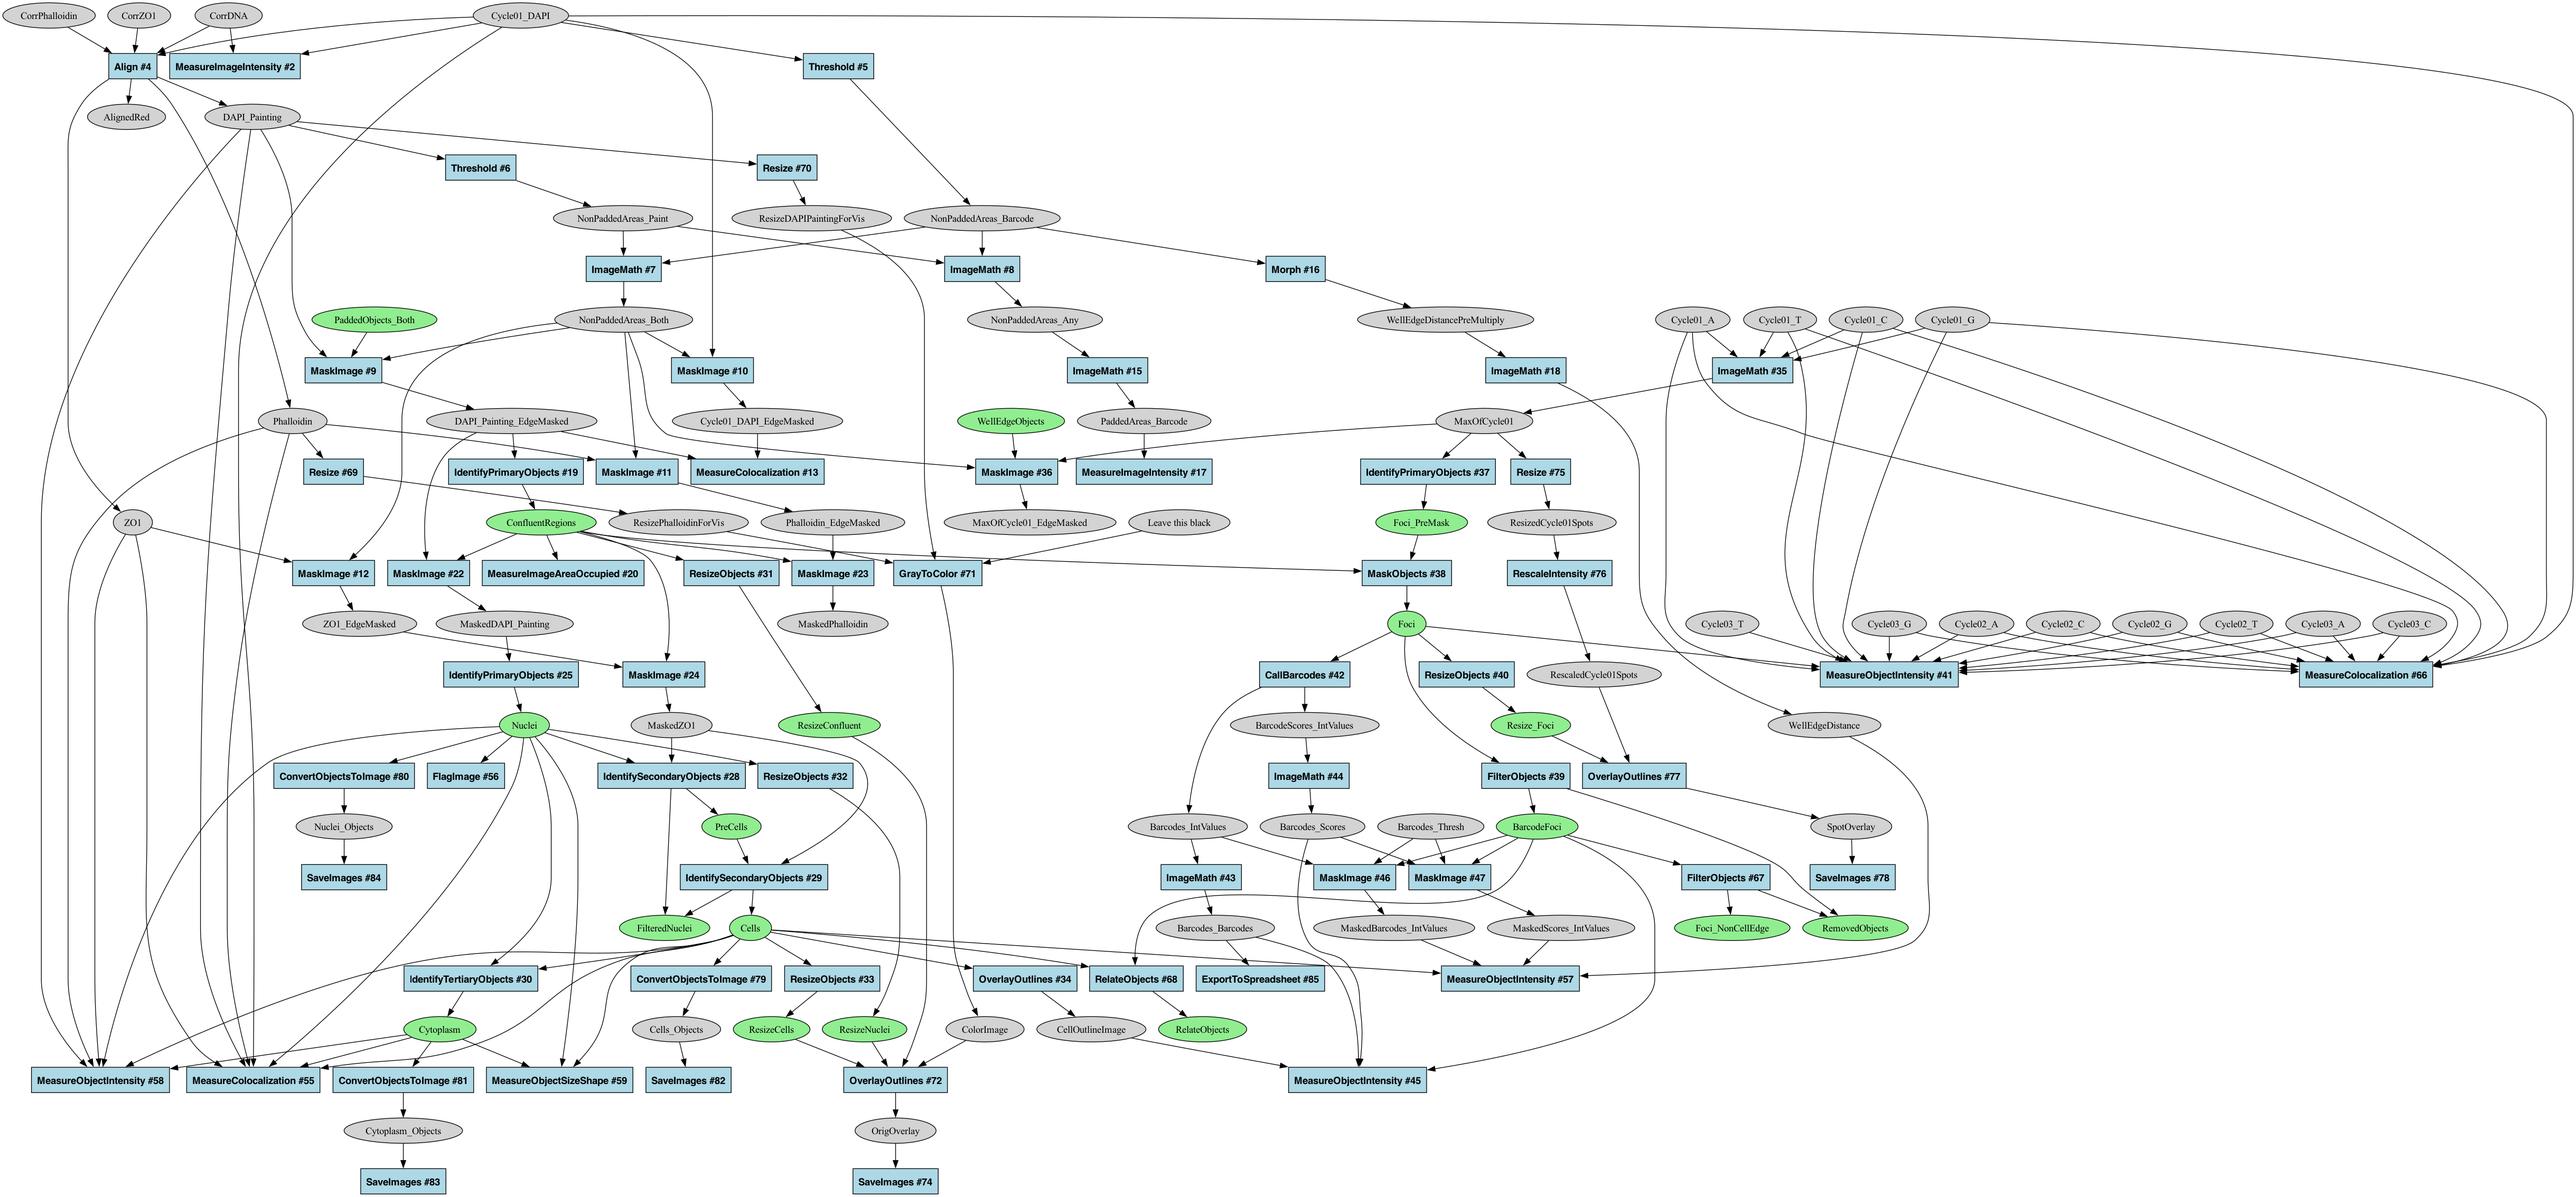
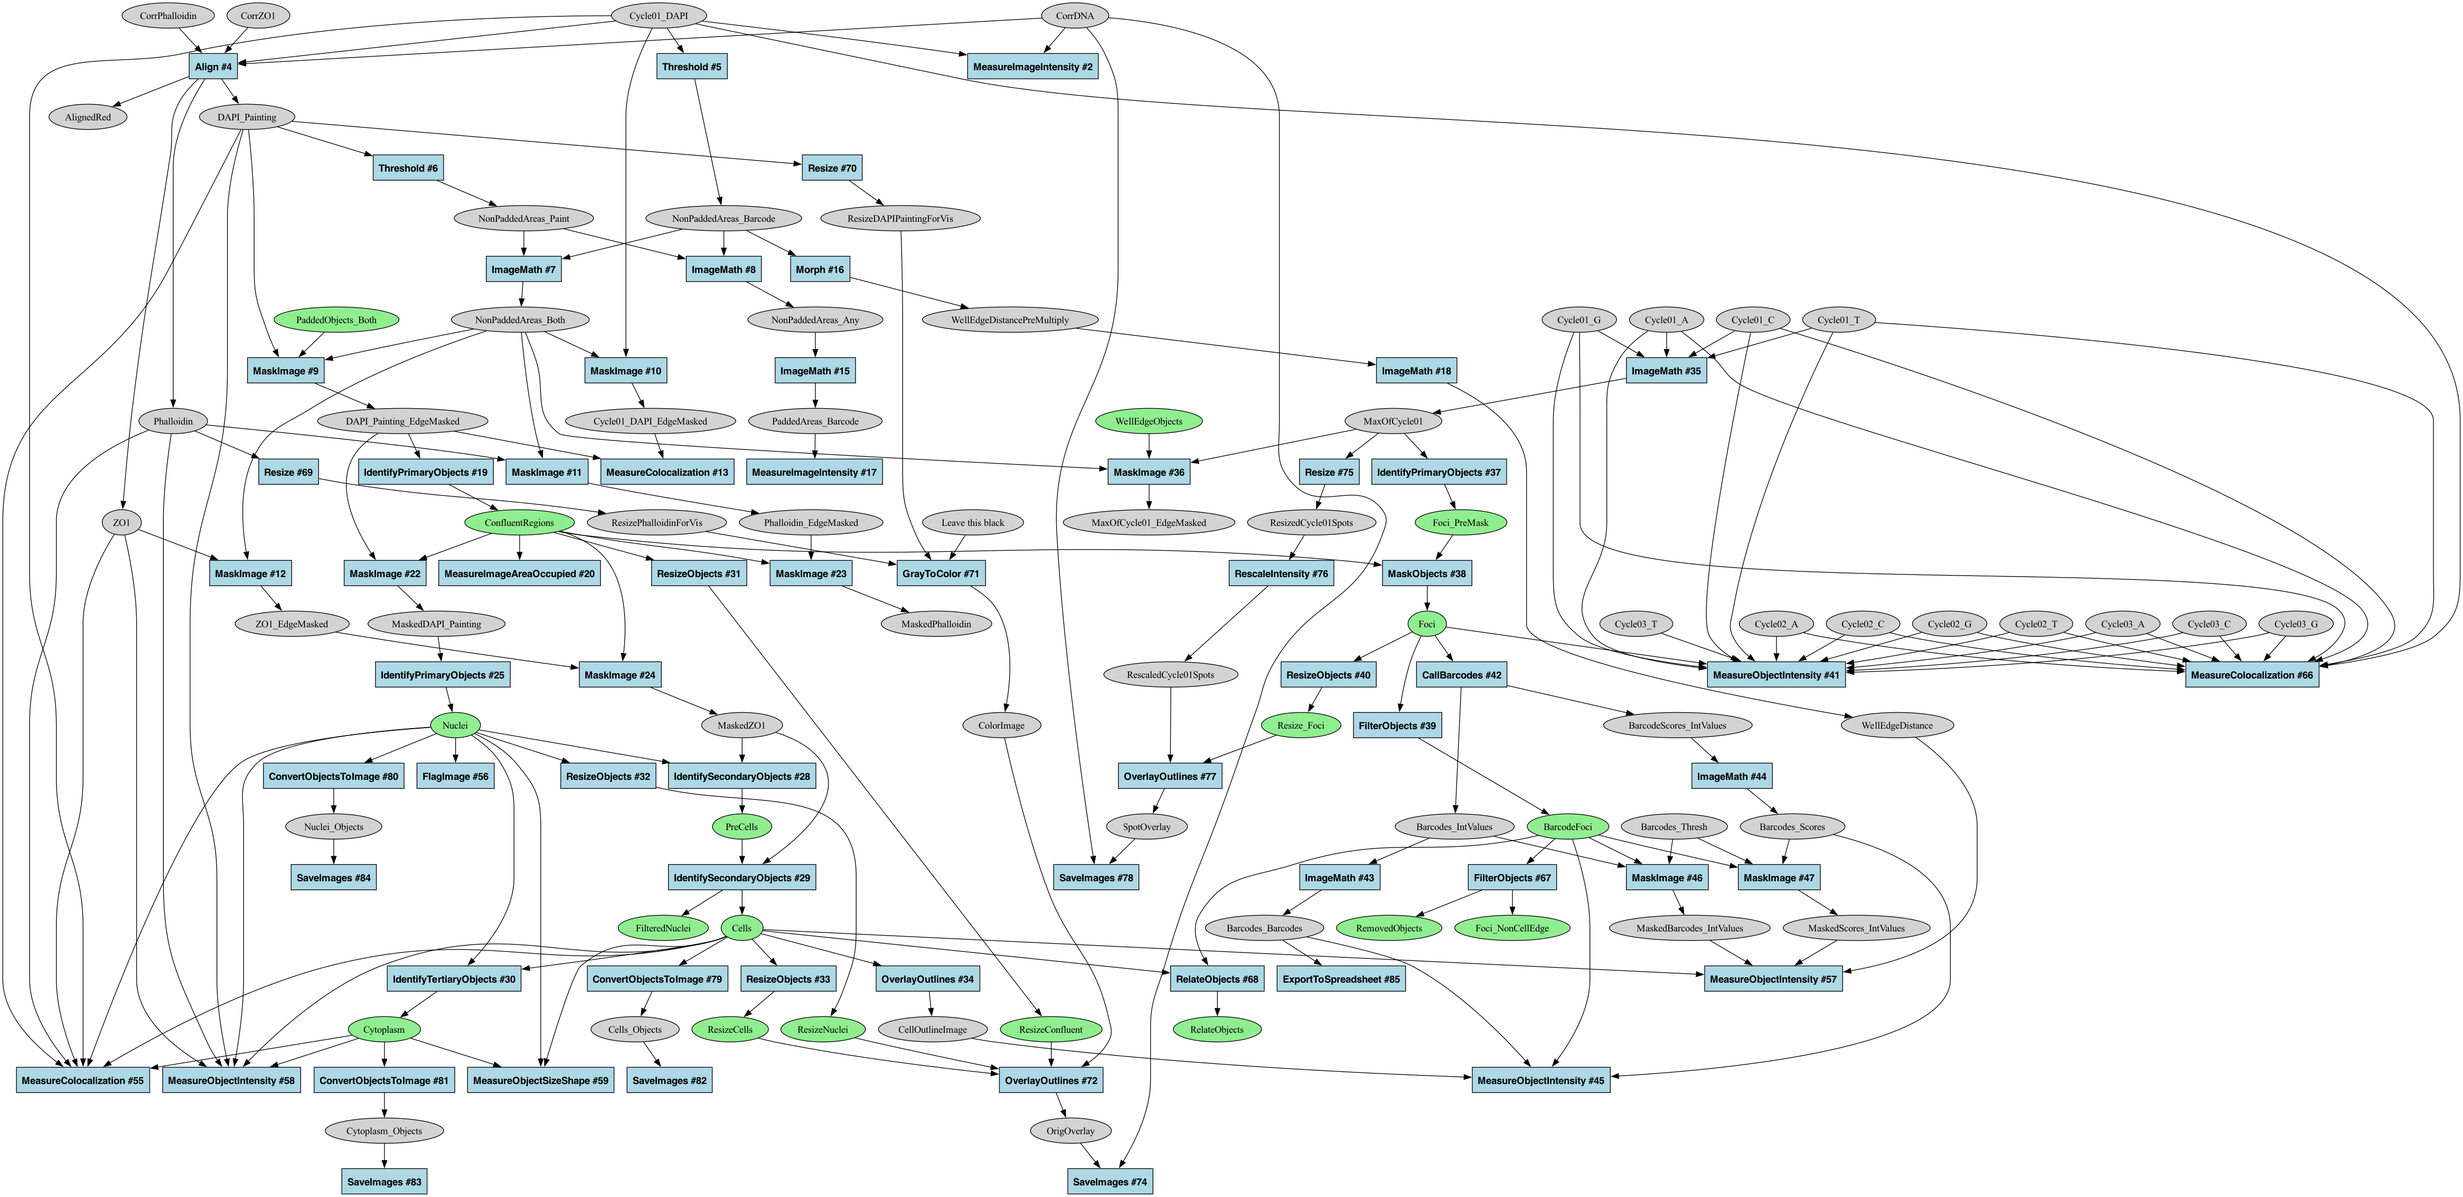
Regenerate example outputs - structural differences detected
Regenerated all example graphs using regenerate_all_examples.sh script.
Note: Output graphs show both visual and structural differences from
the original versions that need investigation.

🤖 Generated with [Claude Code](https://claude.ai/code)

diff --git a/README.md b/README.md
@@ -219,7 +219,7 @@ The repository includes sample files:
 ./cp_graph.py examples/analysis.json examples/output/analysis.dot
 
 # Filter complex analysis pipeline by specifying multiple root nodes
-./cp_graph.py examples/analysis.json examples/output/analysis_filtered.dot --remove-unused-images  --exclude-module-types=ExportToSpreadsheet --root-nodes=CorrPhalloidin,CorrZO1,CorrDNA,Cycle01_DAPI  --highlight-filtered
+./cp_graph.py examples/analysis.json examples/output/analysis_filtered_simple.dot --remove-unused-images  --exclude-module-types=ExportToSpreadsheet --root-nodes=CorrPhalloidin,CorrZO1,CorrDNA,Cycle01_DAPI  --highlight-filtered
 
 # Combine node ranking with filtering for optimal visualization
 ./cp_graph.py examples/analysis.json examples/output/analysis_ranked_filtered.dot --rank-nodes --root-nodes=CorrPhalloidin,CorrZO1 --remove-unused-images
@@ -255,6 +255,14 @@ The above example generates the following image:
 
 > [!IMPORTANT]
 > CellProfiler generates many measurements. When generating a graph image (e.g. png), it is highly recommended to use the `--remove-unused-measuremetns` flag. This removes measurements which are not inputs to modules. Otherwise the graph would be extremely large and cluttered. Excluding that flag is still useful for the text summary of inputs and outputs.
+
+## Regenerating Example Outputs
+
+All example images and graphs in this documentation can be regenerated using:
+
+```bash
+./scripts/regenerate_all_examples.sh
+```
 
 ## Technical Details
 
